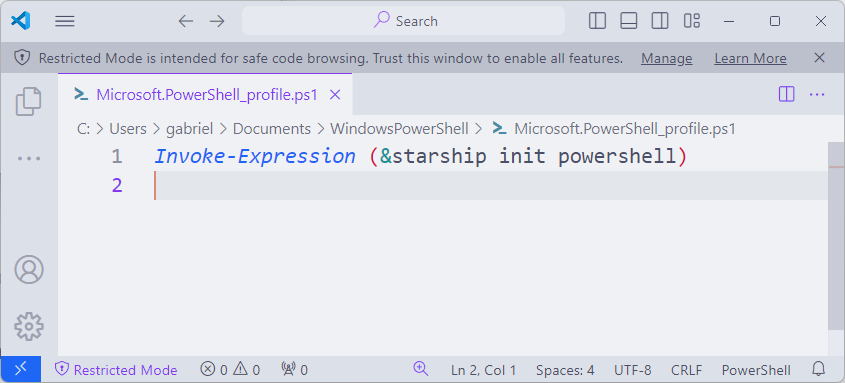
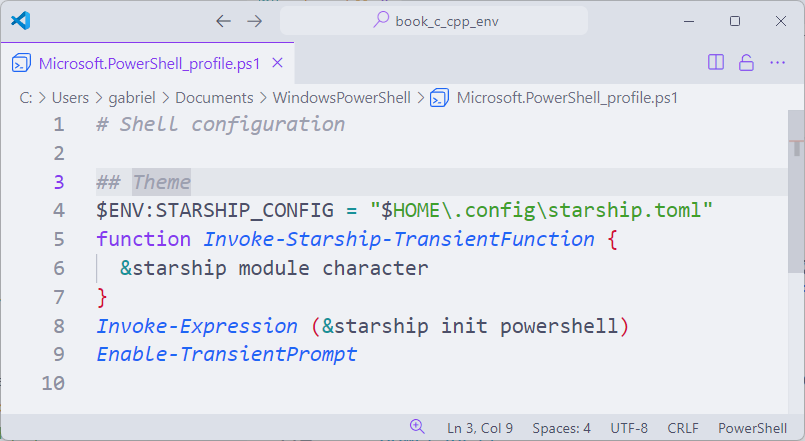
Write about configuring Starship

diff --git a/src/chapters/shell/themes/index.md b/src/chapters/shell/themes/index.md
@@ -109,10 +109,18 @@ code $PROFILE
 <figcaption>Abrindo o arquivo de configuração do Powershell com o Visual Studio Code.</figcaption>
 </figure>
 
-Adicione a seguinte linha ao final do arquivo:
+Adicione as seguintes linhas ao arquivo:
 
 ```powershell
+# Shell configuration
+
+## Theme
+$ENV:STARSHIP_CONFIG = "$HOME\.config\starship.toml"
+function Invoke-Starship-TransientFunction {
+  &starship module character
+}
 Invoke-Expression (&starship init powershell)
+Enable-TransientPrompt
 ```
 
 <figure>
@@ -190,10 +198,11 @@ Adicione as seguintes linhas ao final do arquivo:
 ```bash
 ## Theme
 eval "$(starship init zsh)"
+export STARSHIP_CONFIG="$HOME/.config/starship.toml"
 ```
 
 <figure>
-<img src="./activation_zsh.png" />
+<img src="./edited_zsh.png" />
 <figcaption>Arquivo de configuração do Zsh configurado para ativar o Starship.</figcaption>
 </figure>
 
@@ -206,3 +215,69 @@ Para verificar se o Starship foi instalado corretamente, execute o comando `star
 <img src="./installed_starship_zsh.png" />
 <figcaption>Verificando se o Starship foi instalado no Zsh.</figcaption>
 </figure>
+
+## Configurando o Starship
+
+O starship não é um tema, mas um framework para criar e definir temas.
+Ele é extremamente customizável, e você pode definir o prompt do jeito que quiser.
+Se quiser aprender mais sobre, acesse a [documentação oficial](https://starship.rs/config/).
+
+Neste capítulo, vamos utilizar um dos temas já prontos, os quais são chamados de [presets](https://starship.rs/presets/).
+Acesse o link e escolha o tema que mais lhe agrada.
+Vamos utilizar o tema [Gruvbox Rainbow](https://starship.rs/presets/gruvbox-rainbow), mas o passo a passo é similar para qualquer outro.
+
+O Starship também tem um arquivo de configuração chamado `starship.toml`, que é onde você pode definir as configurações do prompt.
+Por padrão, este arquivo pode não existir.
+
+Para criar um no **Ubuntu**, **Fedora** ou **WSL**, execute o comando:
+
+```bash
+mkdir -p ~/.config && touch ~/.config/starship.toml
+```
+
+Já no **Windows**, execute os comandos:
+
+```powershell
+mkdir -Force $HOME\.config
+New-Item -Path $HOME\.config\starship.toml -ItemType File
+```
+
+Depois de criado, precisamos copiar o conteúdo de um preset para dentro desse arquivo.
+O starship oferece um comando para fazer justamente isso.
+
+No **Ubuntu**, **Fedora** ou **WSL**, execute o comando:
+
+```bash
+starship preset gruvbox-rainbow -o $STARSHIP_CONFIG
+```
+
+Já no **Windows**, execute o comando:
+
+```powershell
+starship.exe preset gruvbox-rainbow -o $ENV:STARSHIP_CONFIG
+```
+
+<figure>
+<img src="./setting_theme_powershell.png" />
+<figcaption>Definindo o tema Gruvbox Rainbow no Powershell.</figcaption>
+</figure>
+
+### Considerações
+
+O Starship é um framework novo e em constante desenvolvimento.
+Uma funcionalidade que foi implementada para o Powershell, mas ainda não para o Zsh, é a de definir o prompt de forma transitória.
+
+Isso significa que apenas a linha atual terá todos os detalhes do prompt, e as demais linhas terão um prompt mais simples.
+
+<figure style="display:flex;flex-direction:column;max-width:100%;">
+  <div style="display:flex;align-items:center;gap:1rem;max-width:100%;">
+    <img src="./example_zsh.png" style="width:50%;height:auto;"/>
+    <img src="./example_powershell.png" style="width:50%;height:auto;"/>
+  </div>
+  <figcaption>Comparação do Starship entre o Zsh e o Powershell respectivamente.</figcaption>
+</figure>
+
+Caso você não goste de tantos detalhes nas linhas anteriores no Zsh, você pode escolher um tema mais simples.
+
+Eu particularmente me incomodo com o prompt do Zsh, então vou trocar o tema para o [Nerd Font Symbols](https://starship.rs/presets/nerd-font).
+O processo é o mesmo, bastando trocar o nome do tema no comando de configuração.
